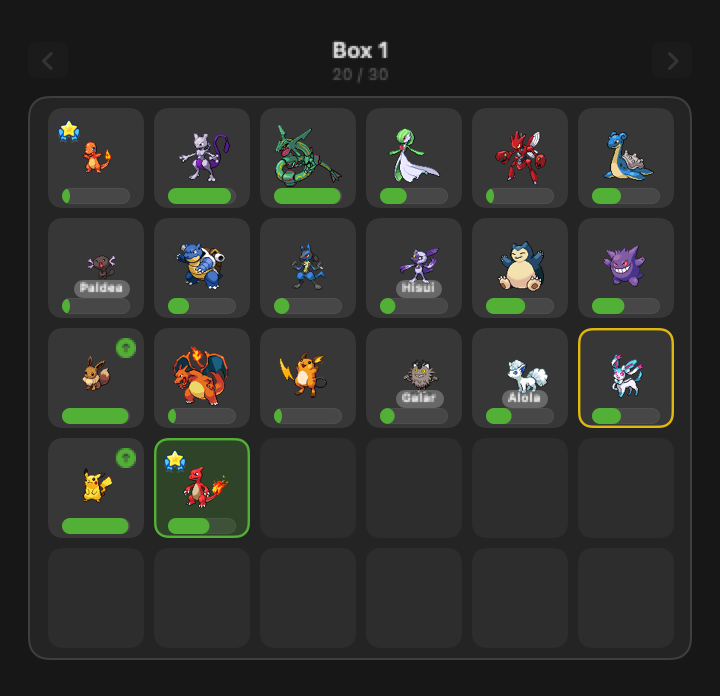
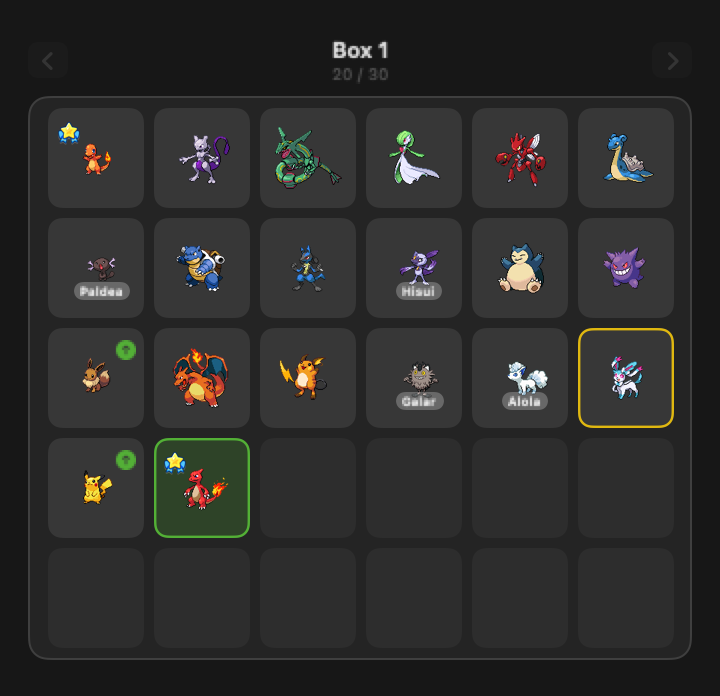
fix: drop the experience bar from box slots
A gauge in every slot said 'still growing' thirty times over without
telling you to do anything. What matters at a glance is whether a
Pokemon is ready to evolve, which the corner arrow already says; the
number belongs on the detail screen where you act on it.

diff --git a/Sources/PokeDexBar/UI/BoxTabView.swift b/Sources/PokeDexBar/UI/BoxTabView.swift
@@ -93,7 +93,6 @@ struct BoxTabView: View {
                                 isPartner: individual.id == store.state.partnerID,
                                 ribbon: individual.ribbon(at: store.currentDate()),
                                 canEvolve: readyToEvolve(individual),
-                                progress: Self.progress(individual),
                                 partnerBadge: l.partnerBadge) {
                             selection = individual.id
                         }
@@ -173,7 +172,6 @@ struct BoxCell: View {
     /// 단 리본 — 칸에서 바로 보여야 "오래 데리고 다닌 아이"가 구분되고, 단계까지 읽힌다.
     let ribbon: Ribbon?
     let canEvolve: Bool
-    let progress: Double
     let partnerBadge: String
     let onTap: () -> Void
 
@@ -187,14 +185,13 @@ struct BoxCell: View {
     #endif
 
     init(individual: Individual, regionLabel: String? = nil, isPartner: Bool,
-         ribbon: Ribbon? = nil, canEvolve: Bool, progress: Double, partnerBadge: String,
+         ribbon: Ribbon? = nil, canEvolve: Bool, partnerBadge: String,
          onTap: @escaping () -> Void) {
         self.individual = individual
         self.regionLabel = regionLabel
         self.isPartner = isPartner
         self.ribbon = ribbon
         self.canEvolve = canEvolve
-        self.progress = progress
         self.partnerBadge = partnerBadge
         self.onTap = onTap
         #if DEBUG
@@ -204,7 +201,7 @@ struct BoxCell: View {
 
     var body: some View {
         Button(action: onTap) {
-            VStack(spacing: 1) {
+            VStack(spacing: 0) {
                 ZStack(alignment: .topTrailing) {
                     SpriteView(speciesID: individual.speciesID, form: individual.spriteForm,
                                size: 36, shiny: individual.shiny)
@@ -235,11 +232,8 @@ struct BoxCell: View {
                             .offset(x: 3, y: -2)
                     }
                 }
-                // 본가 PC 는 칸에 이름을 안 적는다 — 스프라이트가 곧 식별자다.
-                // 경험치만 칸 바닥에 얇게 남겨 "키우는 중"이 보이게 한다.
-                ProgressView(value: progress)
-                    .progressViewStyle(.linear)
-                    .frame(width: 34, height: 2)
+                // 본가 PC 는 칸에 이름도 게이지도 안 적는다 — 스프라이트가 곧 식별자다.
+                // 지금 손댈 수 있는 것(진화 가능)만 표시하고, 진행도는 상세에서 본다.
             }
             .frame(width: 48, height: 50)
             .background(isPartner ? Color.accentColor.opacity(0.22) : Color.secondary.opacity(0.16),
